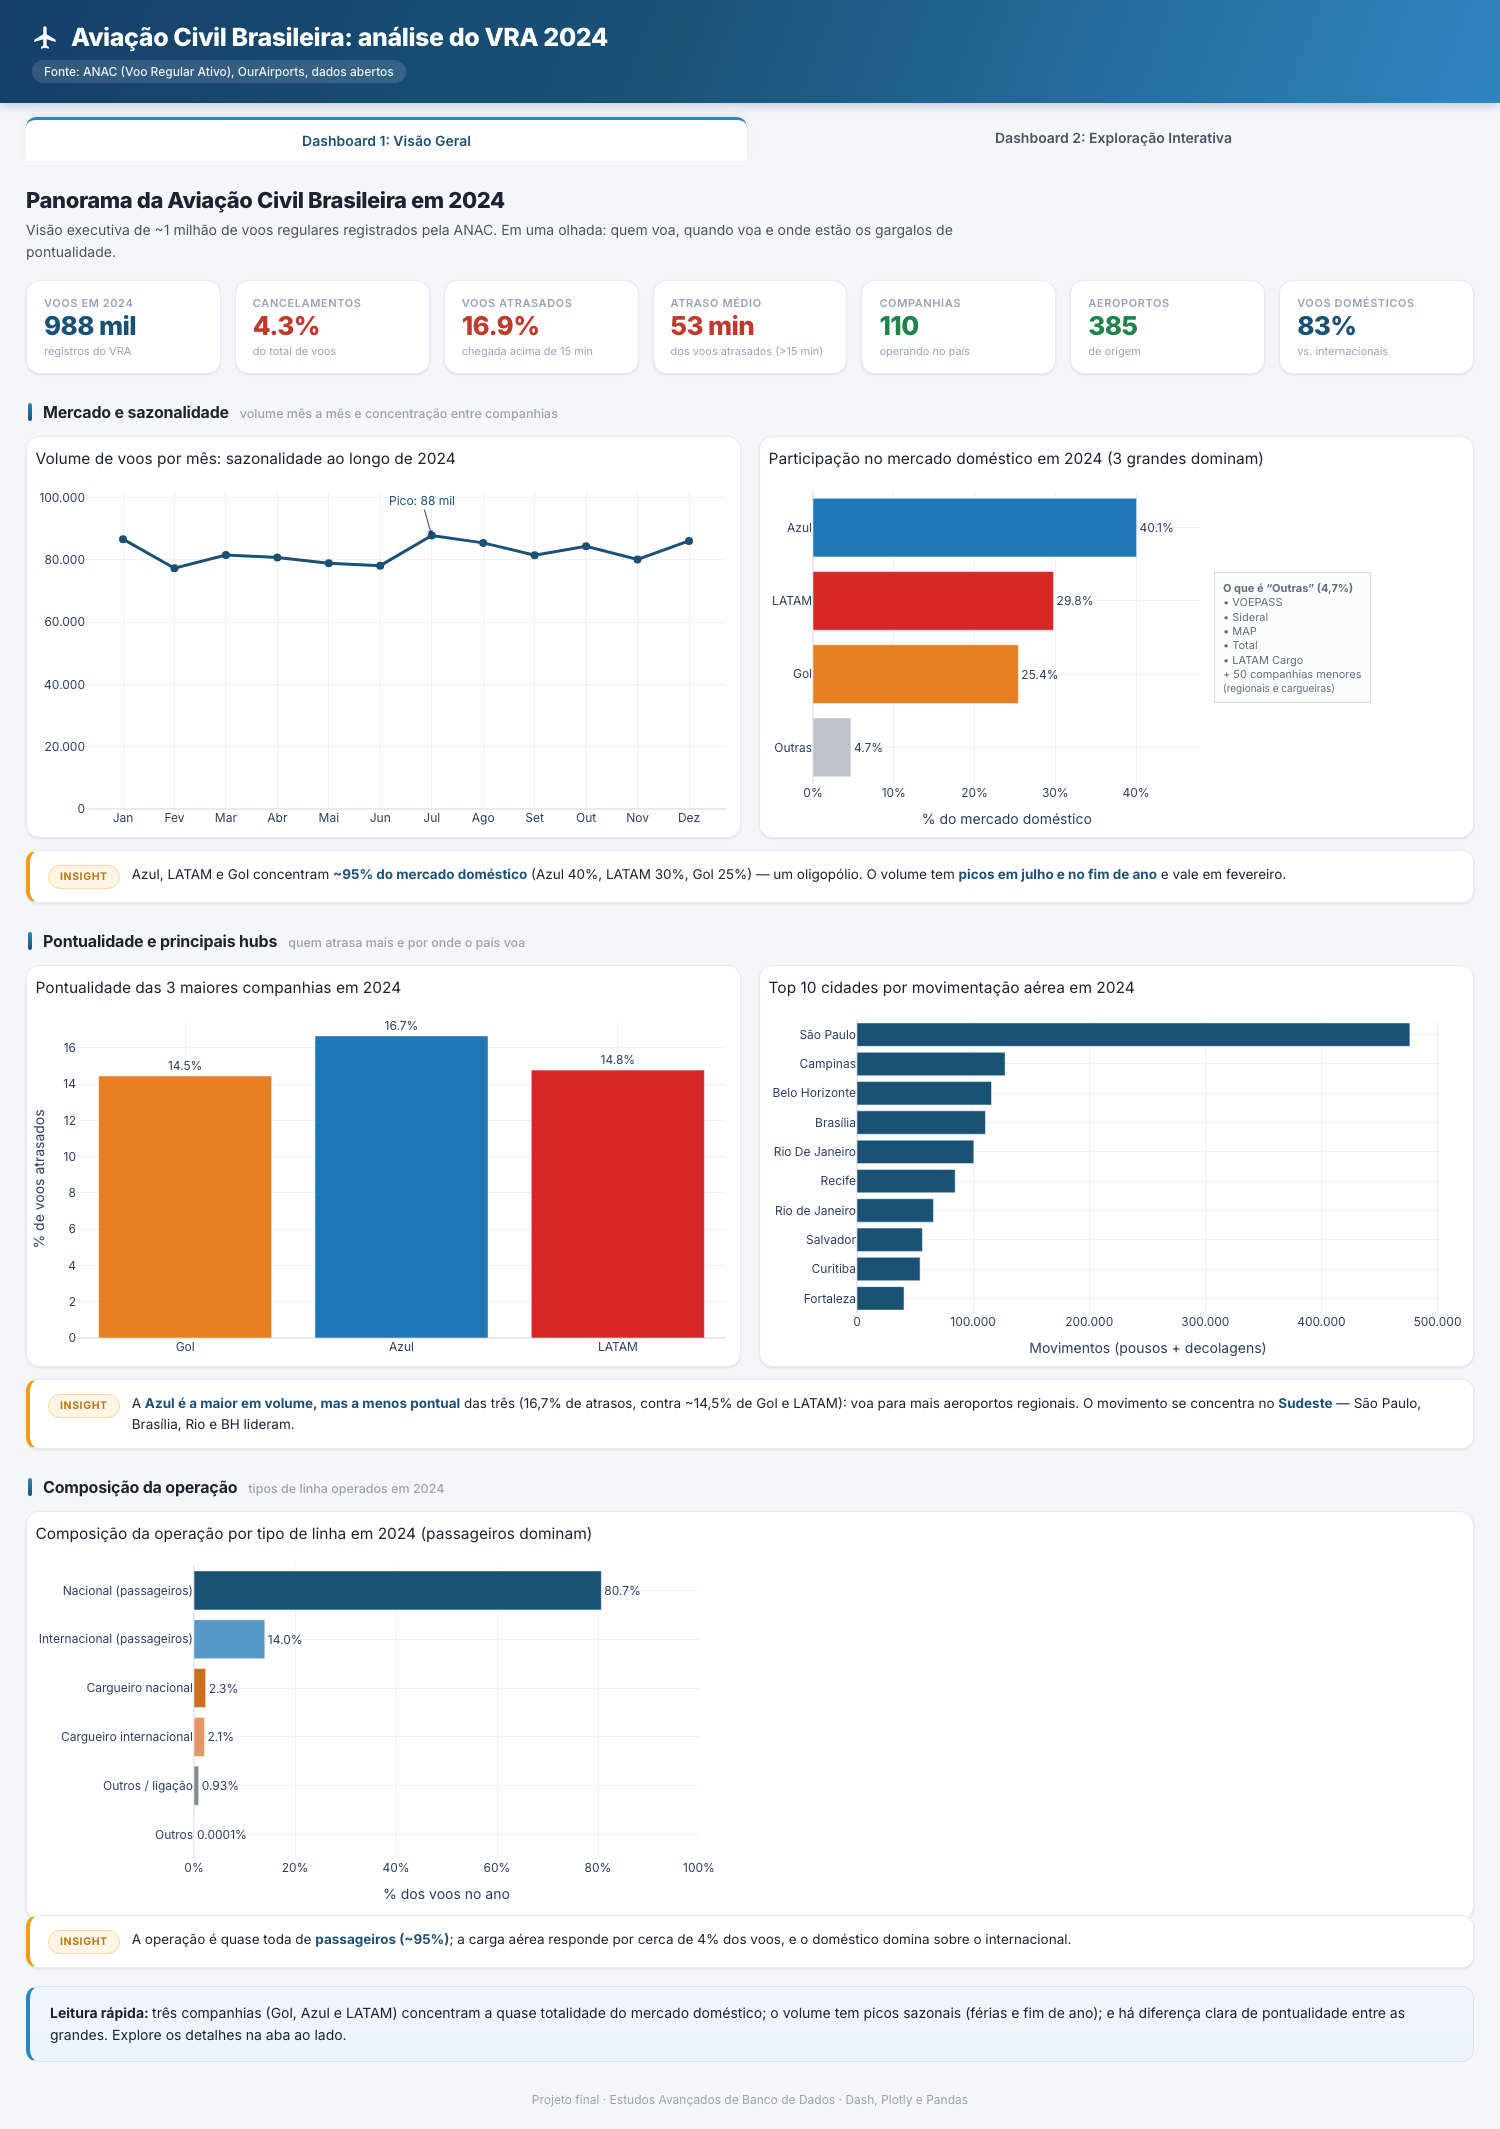
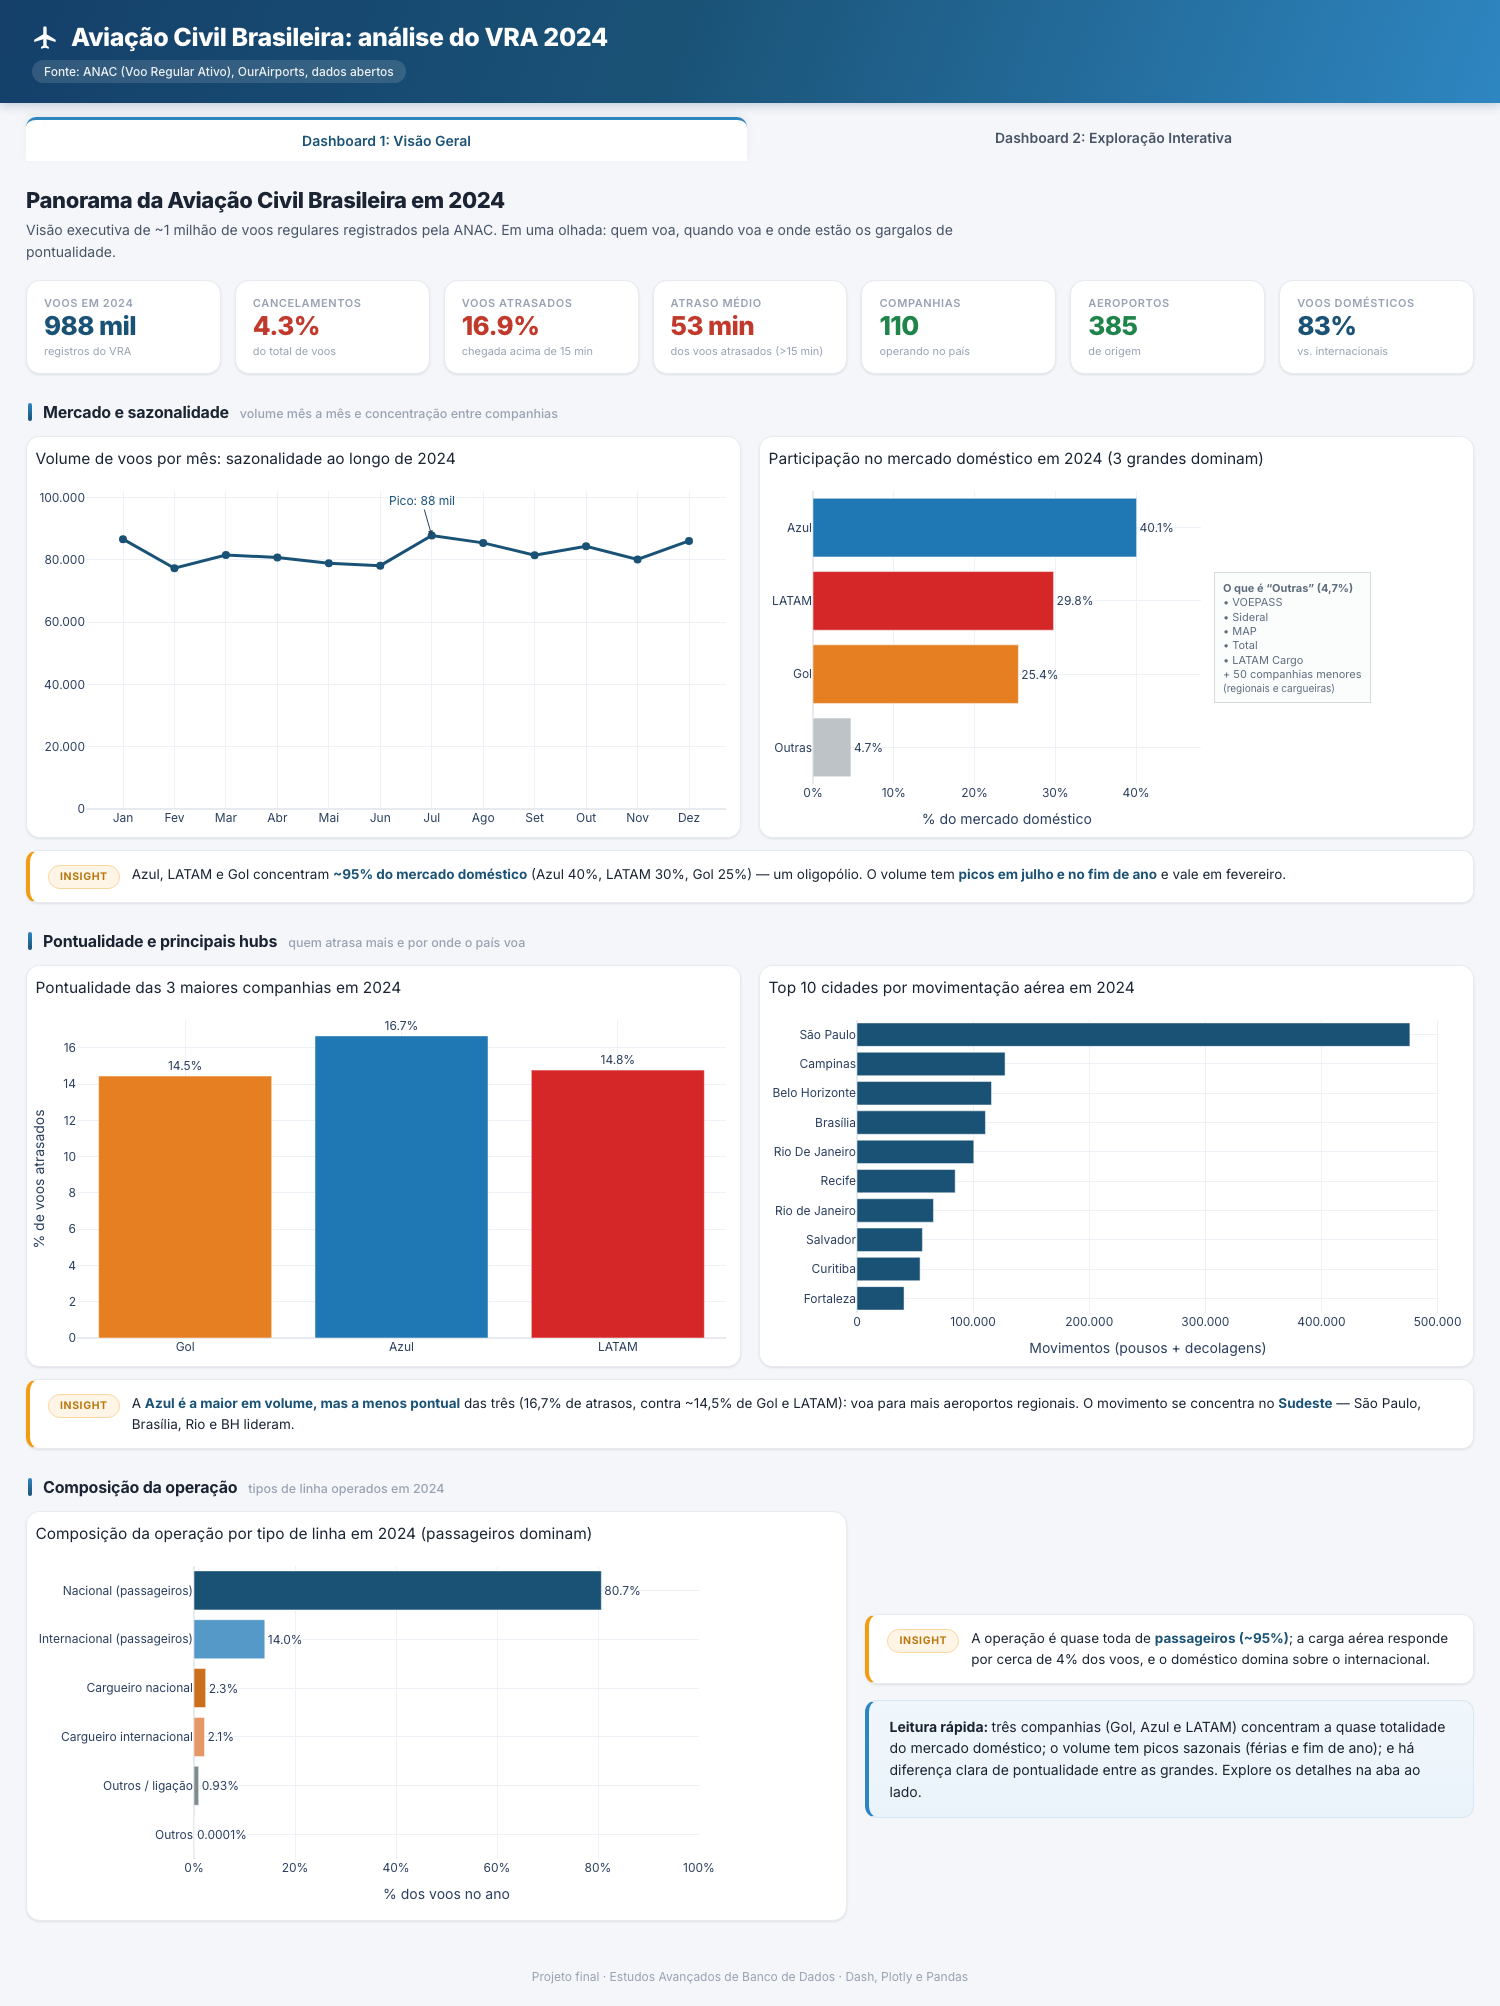
D1: insight e leitura rápida ao lado do gráfico de composição
Aproveita o espaço branco à direita da barra horizontal de tipo de linha — o
gráfico fica à esquerda e as caixas de insight + leitura rápida à direita,
deixando a Visão Geral mais compacta.

diff --git a/assets/style.css b/assets/style.css
@@ -156,6 +156,7 @@ body {
     margin-bottom: 18px;
 }
 .grid-2 > div,
+.grid-fim .js-plotly-plot,
 .aba > div > .js-plotly-plot {
     background: var(--card);
     border: 1px solid var(--borda);
@@ -166,6 +167,23 @@ body {
 }
 .grid-2 > div:hover { box-shadow: var(--sombra-hover); }
 .aba > div > .js-plotly-plot { margin-bottom: 18px; }
+
+/* Última seção do D1: chart à esquerda, insight + leitura rápida à direita */
+.grid-fim {
+    display: grid;
+    grid-template-columns: 1.35fr 1fr;
+    gap: 18px;
+    margin-bottom: 18px;
+    align-items: stretch;
+}
+.coluna-lateral {
+    display: flex;
+    flex-direction: column;
+    justify-content: center;
+    gap: 16px;
+}
+.coluna-lateral .insight-box,
+.coluna-lateral .rodape-insight { margin: 0; }
 
 /* ---- Caixa de Insight (comunica o achado de cada seção) ---- */
 .insight-box {
@@ -277,6 +295,6 @@ body {
 
 /* ---- Responsividade ---- */
 @media (max-width: 1100px) {
-    .grid-2 { grid-template-columns: 1fr; }
+    .grid-2, .grid-fim { grid-template-columns: 1fr; }
     .filtros { grid-template-columns: 1fr 1fr; }
 }

diff --git a/src/app.py b/src/app.py
@@ -393,18 +393,22 @@ def layout_visao_geral() -> html.Div:
                 "para mais aeroportos regionais. O movimento se concentra no ",
                 html.B("Sudeste"), " — São Paulo, Brasília, Rio e BH lideram."),
         secao("Composição da operação", "tipos de linha operados em 2024"),
-        # largura cheia: altura fixa + responsive=False p/ não crescer em loop
-        dcc.Graph(figure=fig_tipo_linha(), style={"height": "410px"},
-                  responsive=False),
-        insight("A operação é quase toda de ", html.B("passageiros (~95%)"),
-                "; a carga aérea responde por cerca de 4% dos voos, e o doméstico "
-                "domina sobre o internacional."),
-        html.Div(className="rodape-insight", children=[
-            html.B("Leitura rápida: "),
-            "três companhias (Gol, Azul e LATAM) concentram a quase totalidade "
-            "do mercado doméstico; o volume tem picos sazonais (férias e fim de "
-            "ano); e há diferença clara de pontualidade entre as grandes. "
-            "Explore os detalhes na aba ao lado.",
+        # chart à esquerda; insight + leitura rápida ocupam o espaço à direita
+        html.Div(className="grid-fim", children=[
+            dcc.Graph(figure=fig_tipo_linha(), style={"height": "410px"},
+                      responsive=False),
+            html.Div(className="coluna-lateral", children=[
+                insight("A operação é quase toda de ", html.B("passageiros (~95%)"),
+                        "; a carga aérea responde por cerca de 4% dos voos, e o "
+                        "doméstico domina sobre o internacional."),
+                html.Div(className="rodape-insight", children=[
+                    html.B("Leitura rápida: "),
+                    "três companhias (Gol, Azul e LATAM) concentram a quase "
+                    "totalidade do mercado doméstico; o volume tem picos sazonais "
+                    "(férias e fim de ano); e há diferença clara de pontualidade "
+                    "entre as grandes. Explore os detalhes na aba ao lado.",
+                ]),
+            ]),
         ]),
     ])
 